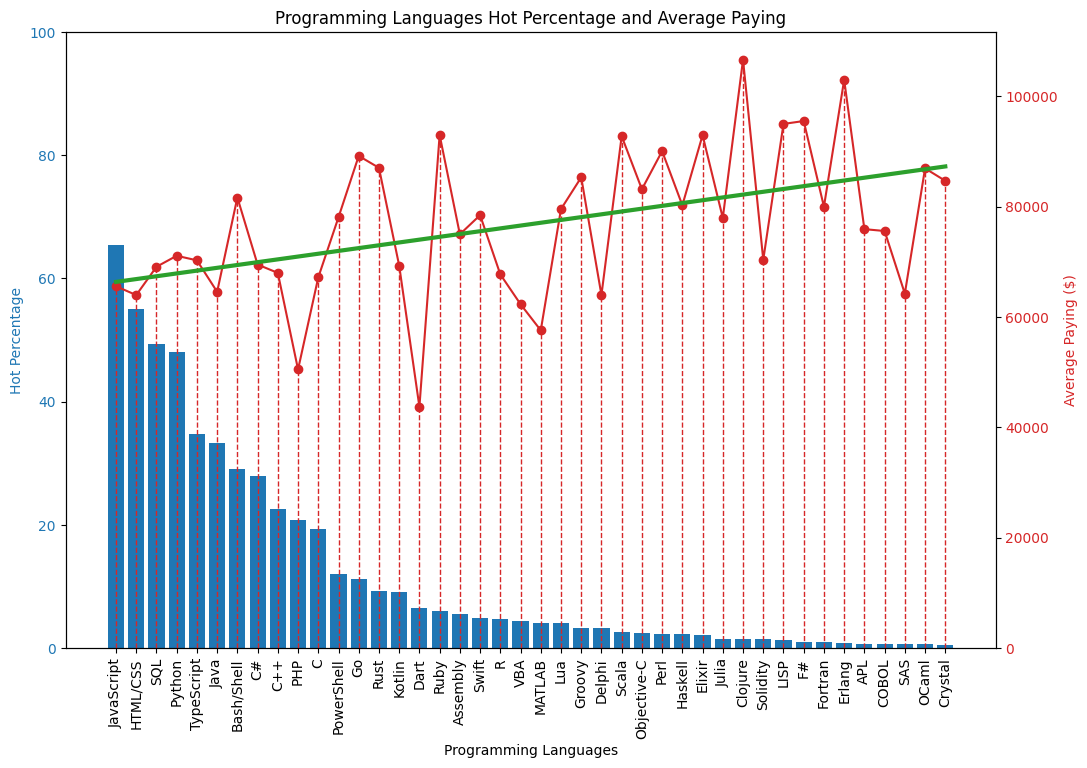
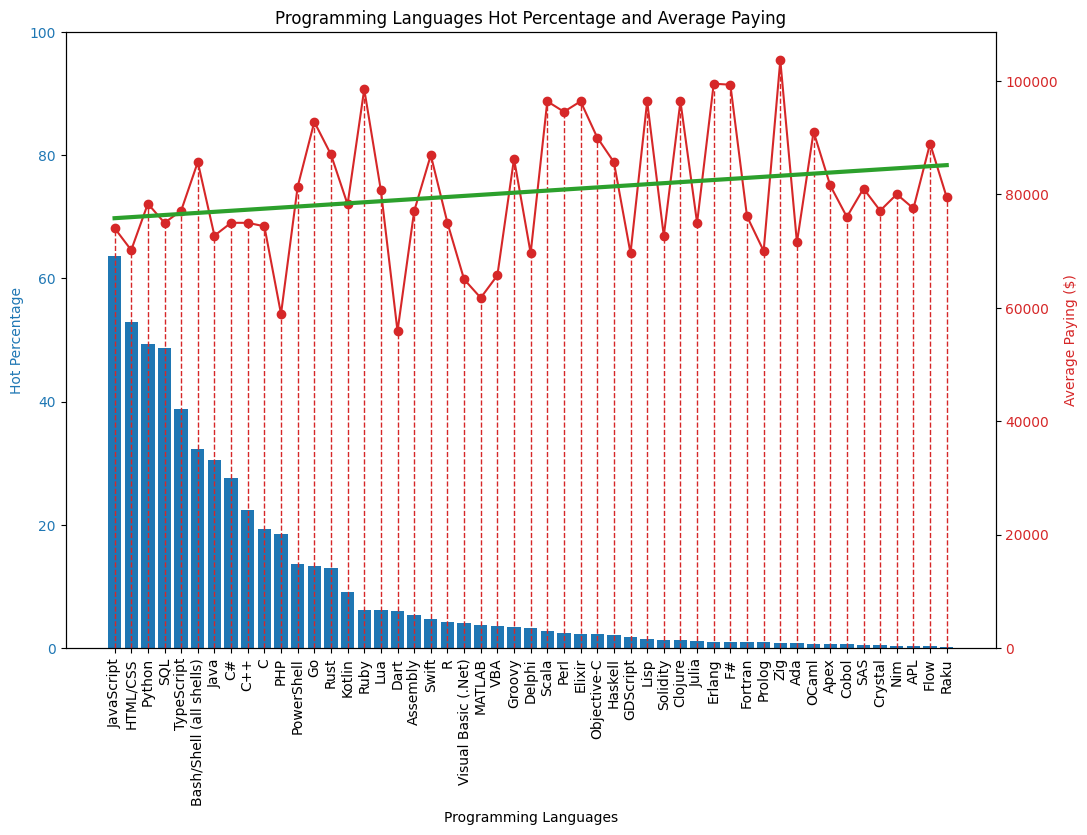
update

diff --git a/__init__.py b/__init__.py
@@ -11,10 +11,10 @@ options.add_argument("headless")
 driver = webdriver.Chrome(options=options)
 
 
-url = 'https://survey.stackoverflow.co/2022'
+url = 'https://survey.stackoverflow.co/2023'
 driver.get(url)
 
-tableOfPopular = driver.find_element(By.XPATH, "//table[@id='languageqmfte']")
+tableOfPopular = driver.find_element(By.XPATH, "//table[@id='languageere2c']")
 
 
 listOfPopular = tableOfPopular.find_element(By.XPATH, ".//tbody")
@@ -31,7 +31,7 @@ for row in listOfPopular:
     })
 
 
-tableOfPaying = driver.find_element(By.XPATH, "//table[@id='programming-scripting-and-markup-languages6z4bv']")
+tableOfPaying = driver.find_element(By.XPATH, "//table[@id='programming-scripting-and-markup-languagesjpkph']")
 listOfPaying = tableOfPaying.find_element(By.XPATH, ".//tbody")
 listOfPaying = listOfPaying.find_elements(By.XPATH, ".//tr")
 
